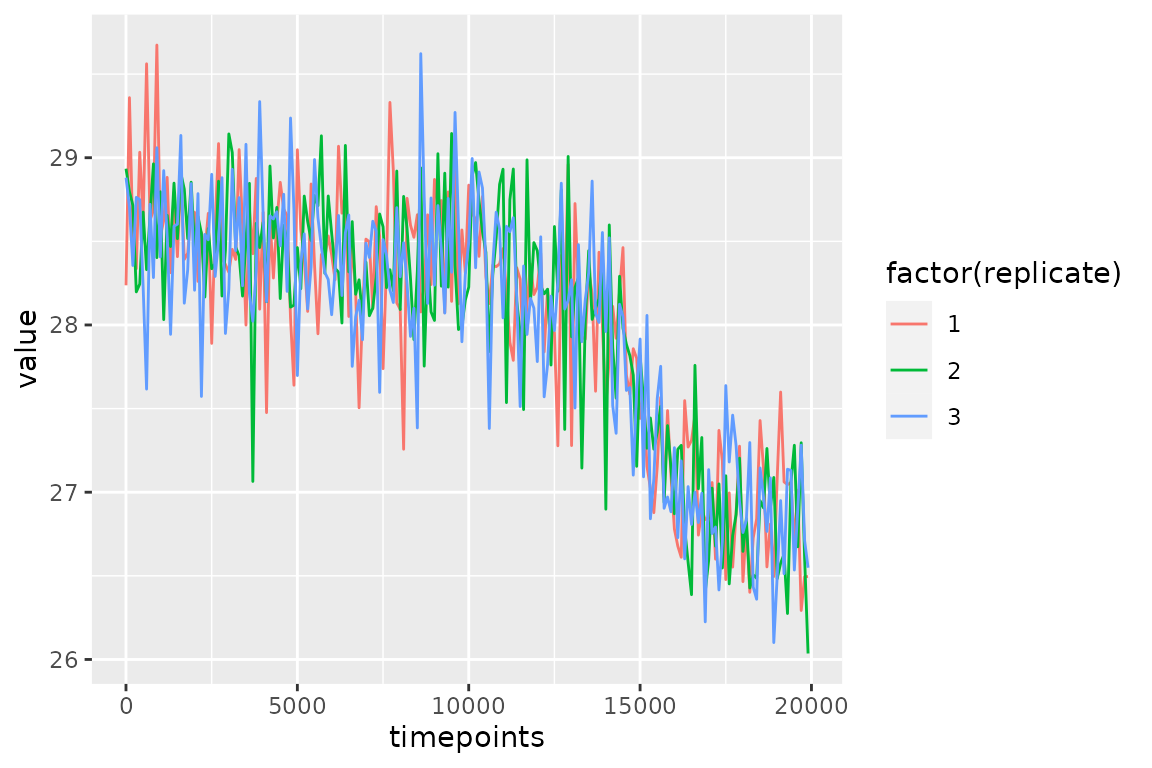
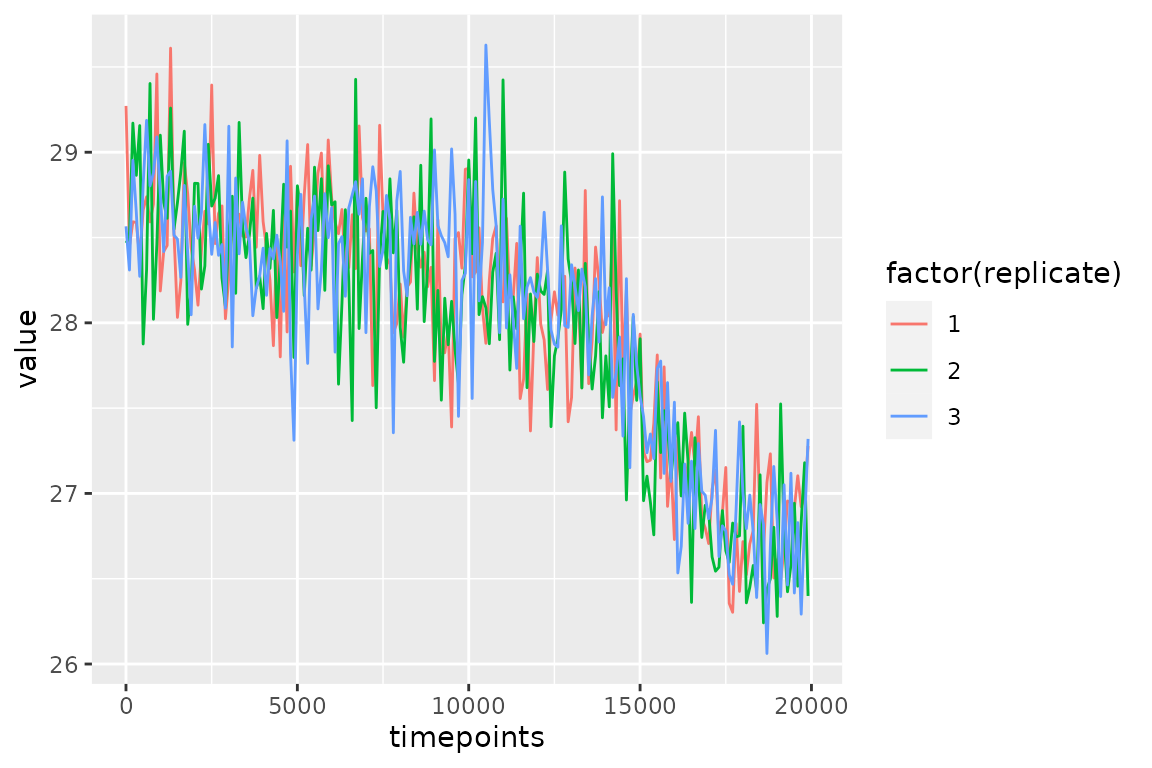
Deploying to gh-pages from @ EarthSystemDiagnostics/sedproxy@271af8df3e58f4a0bfd467788e841237d6b6a16e 🚀

diff --git a/articles/introduction-to-sedproxy.html b/articles/introduction-to-sedproxy.html
@@ -196,15 +196,15 @@
 <span class="co">##    timepoints n.samples replicate stage             value scale       label     </span>
 <span class="co">##         <span style="color: #949494; font-style: italic;">&lt;dbl&gt;</span>     <span style="color: #949494; font-style: italic;">&lt;dbl&gt;</span>     <span style="color: #949494; font-style: italic;">&lt;dbl&gt;</span> <span style="color: #949494; font-style: italic;">&lt;chr&gt;</span>             <span style="color: #949494; font-style: italic;">&lt;dbl&gt;</span> <span style="color: #949494; font-style: italic;">&lt;chr&gt;</span>       <span style="color: #949494; font-style: italic;">&lt;chr&gt;</span>     </span>
 <span class="co">## <span style="color: #BCBCBC;"> 1</span>          1        30         1 proxy.bt.sb.sampY  28.7 Proxy units (4) +Alia…</span>
-<span class="co">## <span style="color: #BCBCBC;"> 2</span>        101        30         1 proxy.bt.sb.sampY  28.7 Proxy units (4) +Alia…</span>
+<span class="co">## <span style="color: #BCBCBC;"> 2</span>        101        30         1 proxy.bt.sb.sampY  28.8 Proxy units (4) +Alia…</span>
 <span class="co">## <span style="color: #BCBCBC;"> 3</span>        201        30         1 proxy.bt.sb.sampY  28.8 Proxy units (4) +Alia…</span>
 <span class="co">## <span style="color: #BCBCBC;"> 4</span>        301        30         1 proxy.bt.sb.sampY  28.7 Proxy units (4) +Alia…</span>
 <span class="co">## <span style="color: #BCBCBC;"> 5</span>        401        30         1 proxy.bt.sb.sampY  28.6 Proxy units (4) +Alia…</span>
 <span class="co">## <span style="color: #BCBCBC;"> 6</span>        501        30         1 proxy.bt.sb.sampY  28.7 Proxy units (4) +Alia…</span>
-<span class="co">## <span style="color: #BCBCBC;"> 7</span>        601        30         1 proxy.bt.sb.sampY  28.6 Proxy units (4) +Alia…</span>
+<span class="co">## <span style="color: #BCBCBC;"> 7</span>        601        30         1 proxy.bt.sb.sampY  28.7 Proxy units (4) +Alia…</span>
 <span class="co">## <span style="color: #BCBCBC;"> 8</span>        701        30         1 proxy.bt.sb.sampY  28.6 Proxy units (4) +Alia…</span>
-<span class="co">## <span style="color: #BCBCBC;"> 9</span>        801        30         1 proxy.bt.sb.sampY  28.6 Proxy units (4) +Alia…</span>
-<span class="co">## <span style="color: #BCBCBC;">10</span>        901        30         1 proxy.bt.sb.sampY  28.7 Proxy units (4) +Alia…</span>
+<span class="co">## <span style="color: #BCBCBC;"> 9</span>        801        30         1 proxy.bt.sb.sampY  28.7 Proxy units (4) +Alia…</span>
+<span class="co">## <span style="color: #BCBCBC;">10</span>        901        30         1 proxy.bt.sb.sampY  28.6 Proxy units (4) +Alia…</span>
 <span class="co">## <span style="color: #949494;"># … with 28,829 more rows</span></span></code></pre>
 <div class="sourceCode" id="cb18"><pre class="downlit sourceCode r">
 <code class="sourceCode R"><span class="va">PFM.5.reps</span><span class="op">$</span><span class="va">everything</span> <span class="op"><a href="https://magrittr.tidyverse.org/reference/pipe.html" class="external-link">%&gt;%</a></span> 
@@ -349,22 +349,22 @@
 <tr class="odd">
 <td align="left">simulated.proxy</td>
 <td align="left">5 forams</td>
-<td align="right">1.0398887</td>
+<td align="right">1.0463066</td>
 </tr>
 <tr class="even">
 <td align="left">simulated.proxy</td>
 <td align="left">30 forams</td>
-<td align="right">0.4902361</td>
+<td align="right">0.4871595</td>
 </tr>
 <tr class="odd">
 <td align="left">simulated.proxy</td>
 <td align="left">120 forams</td>
-<td align="right">0.3307042</td>
+<td align="right">0.3318797</td>
 </tr>
 <tr class="even">
 <td align="left">simulated.proxy</td>
 <td align="left">10x12 forams</td>
-<td align="right">0.2214809</td>
+<td align="right">0.2218748</td>
 </tr>
 </tbody>
 </table>
